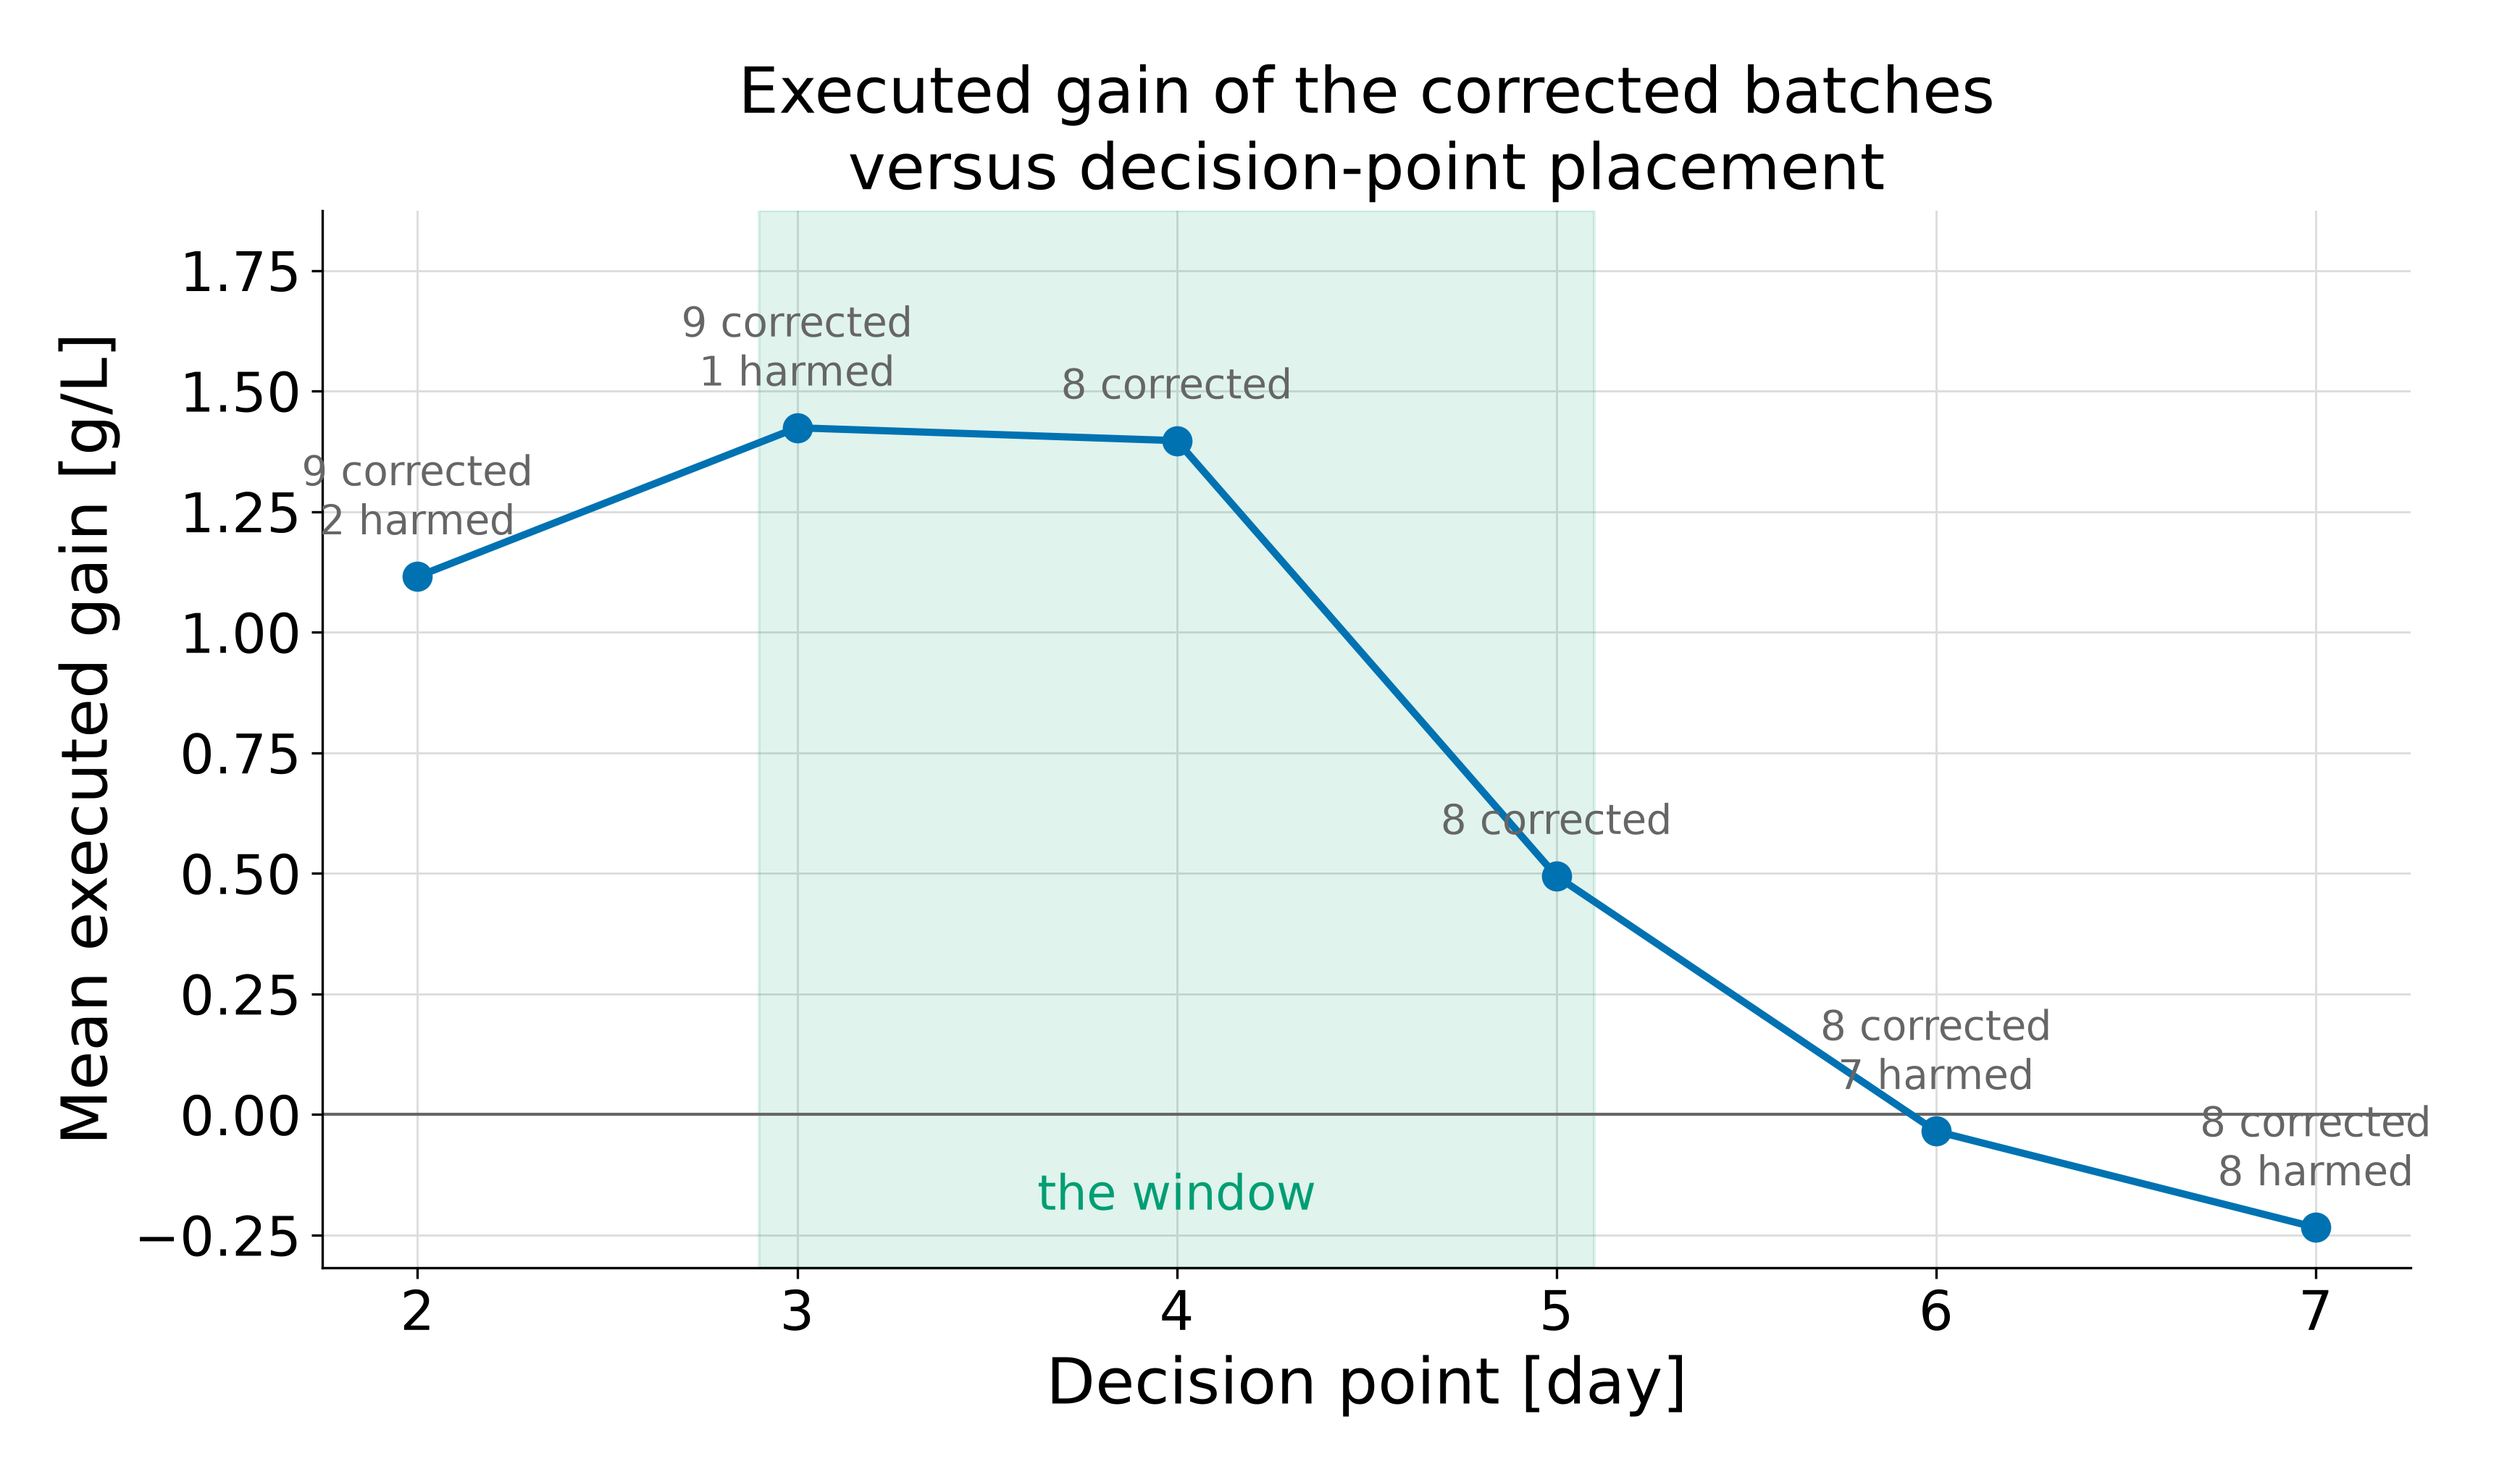
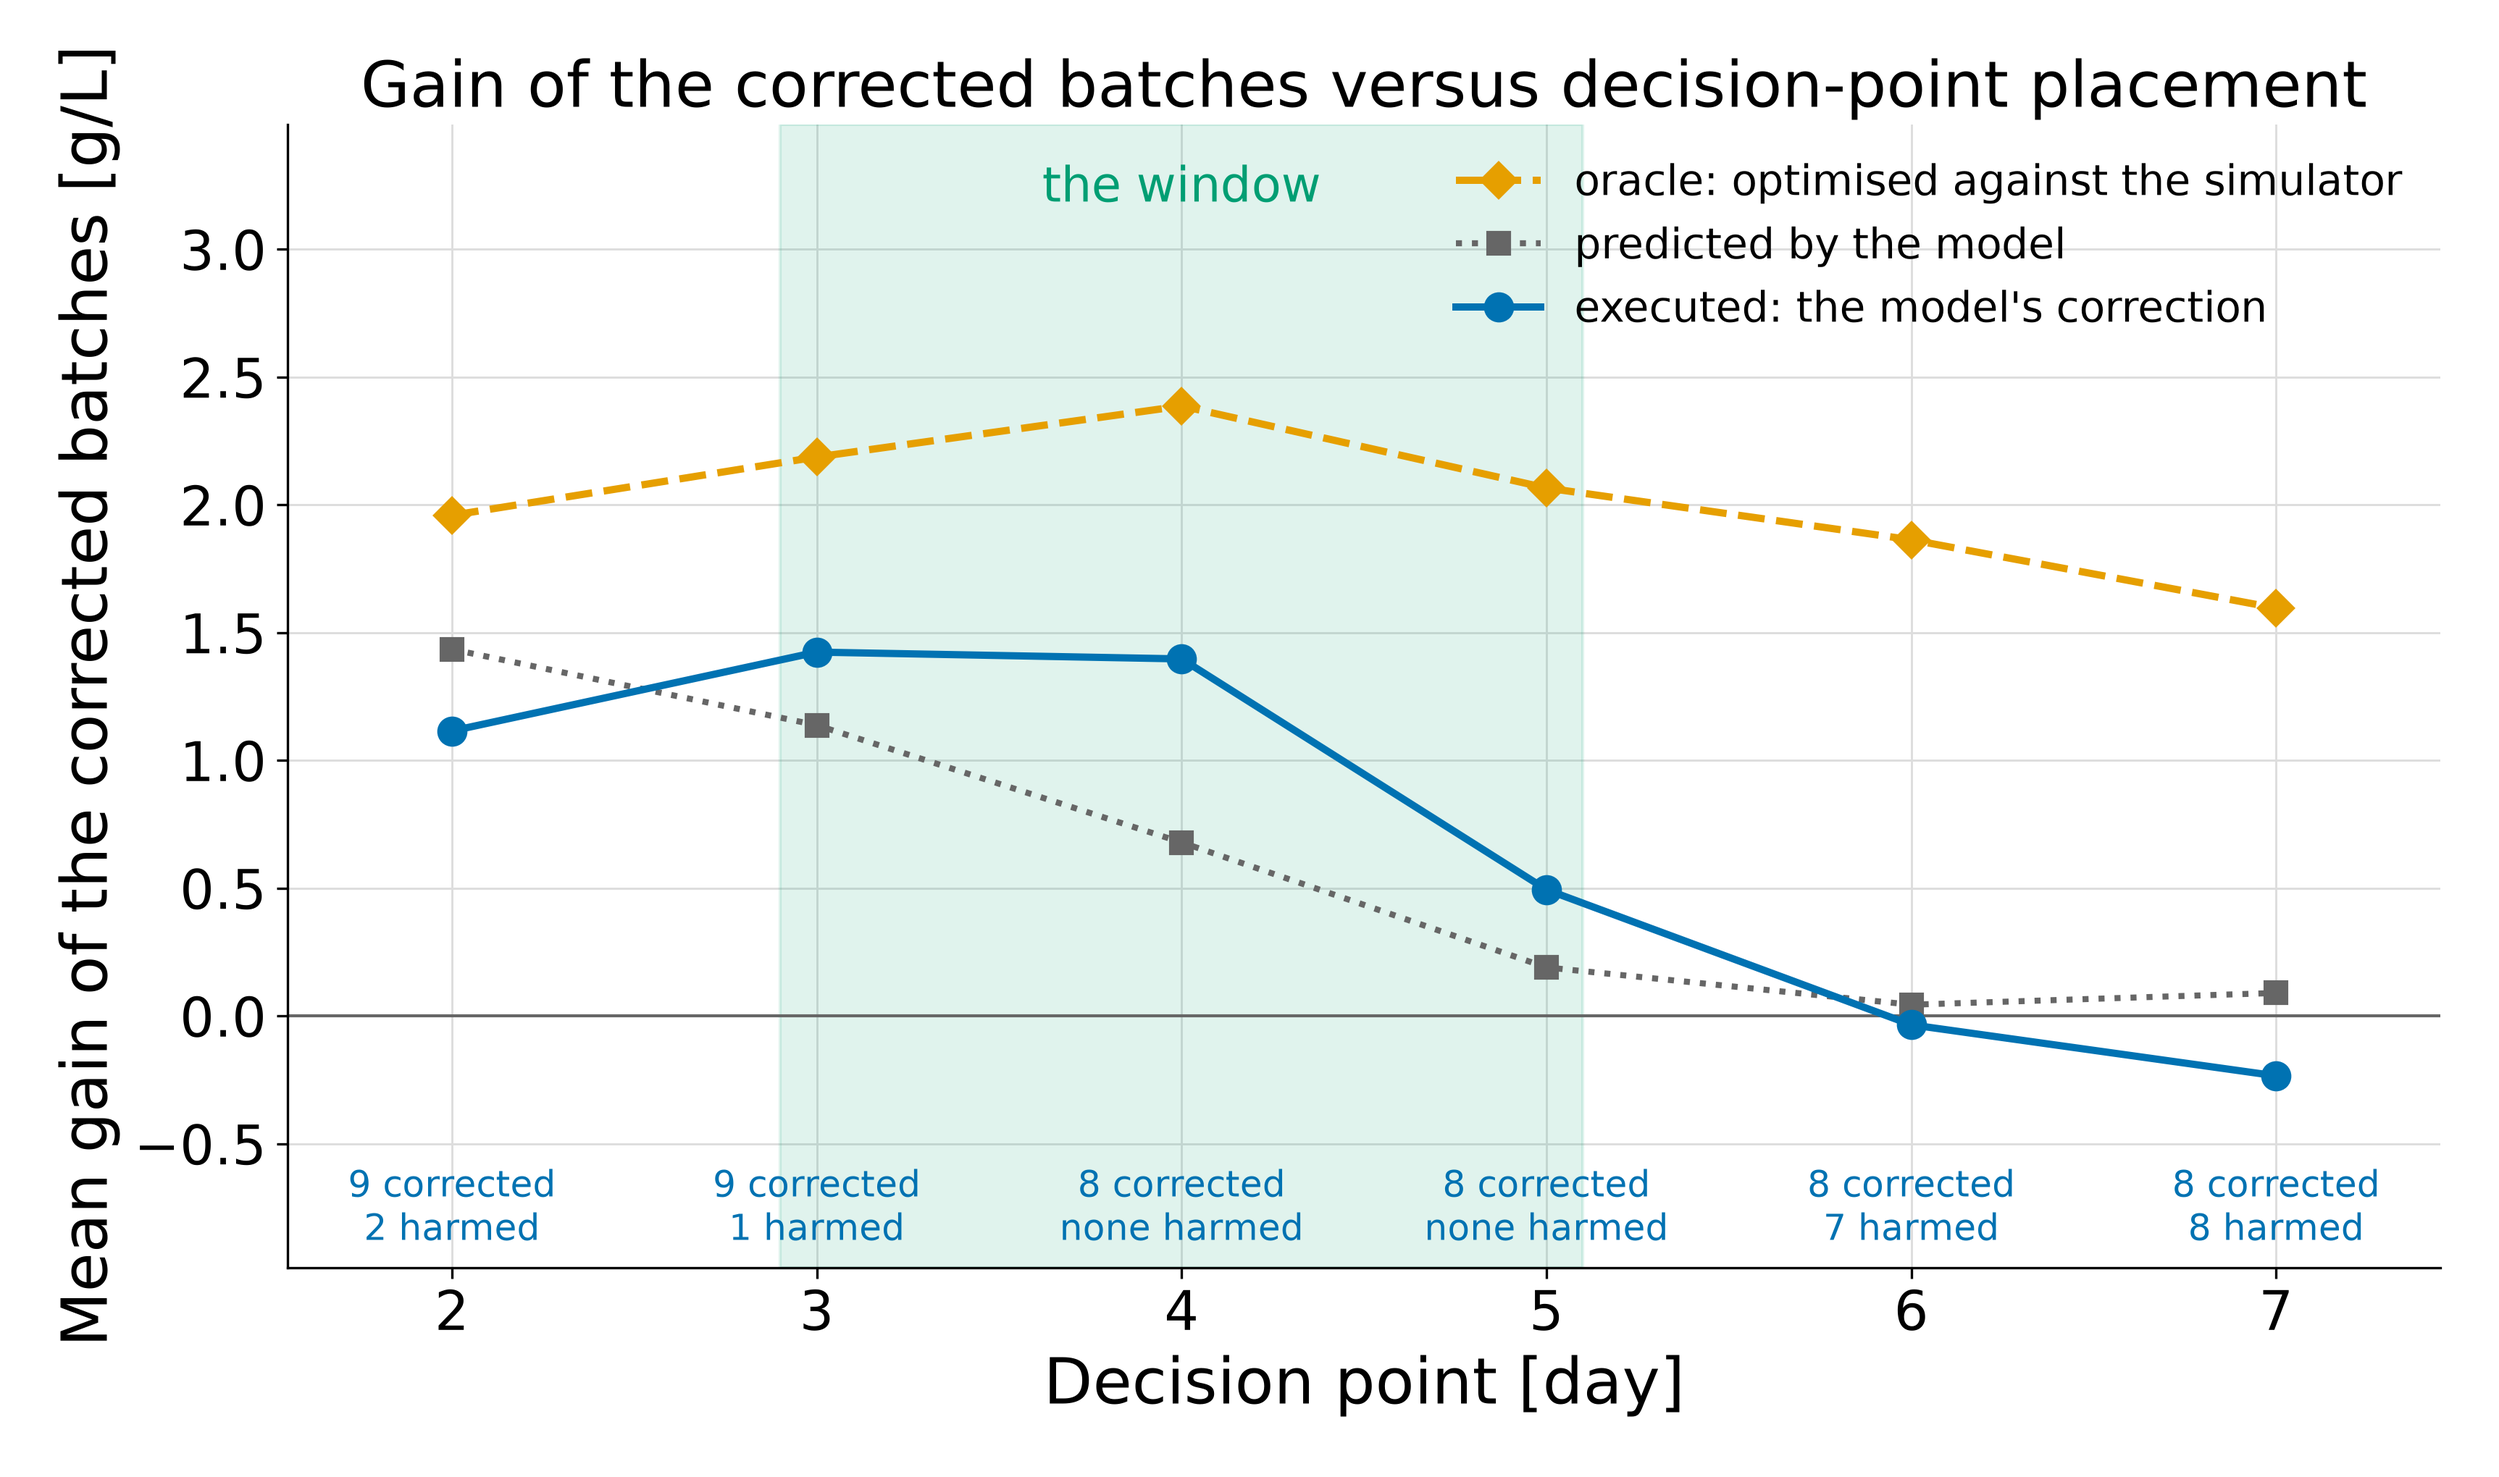
Draw the predicted and oracle gains beside the executed gain in the decision-point window
The late decision points lose their gain because the model stops seeing the
leverage, not because the process loses it: optimised against the simulator
from the same day, the same batches still gain 1.6 to 2.1 g/L at days 5 to 7.
The window figure now shows the model's predicted gain, the executed gain and
that oracle, with the batch counts moved to a row clear of the lines, and the
docstring no longer says the late schedule has no leverage.

Claude-Session: https://claude.ai/code/session_01NZAyiPT8xURSdi24yFKCra

diff --git a/batch/midcourse-correction-figures.py b/batch/midcourse-correction-figures.py
@@ -2,7 +2,8 @@
 
 Five committed PNGs, every quantitative claim executed on the bioreactor
 simulator (corrected schedules re-simulated with the identical disturbance
-seed, so gains are same-batch counterfactuals, never model predictions).
+seed, so executed gains are same-batch counterfactuals; a model's
+prediction, where one is drawn, is labelled as such).
 The seeds replicate ``evaluate_control_policies(y_target=8.0,
 random_state=0)`` from ``process_improve``, so the numbers match that
 function's documented headline exactly.
@@ -26,22 +27,28 @@ function's documented headline exactly.
   7.79 +/- 0.75 (eight corrected, none harmed; dead band 1.0, the whole
   interval must fall short of the target), the
   oracle-from-the-decision-point ceiling 7.98 +/- 0.51, and the
-  perfect-feedforward (adapted) ceiling 7.82 +/- 1.01. Left: each
+  feedforward (adapted) ceiling 7.82 +/- 1.01, each schedule optimised
+  for its batch's Z against the simulator's own equations. Left: each
   corrected batch's jump. Right: the distributions; correction removes
   the low tail, which feedforward adaptation cannot reach.
-- ``mcc-decision-point-window.png``: the executed gain of the corrected
-  batches as the single decision point moves through the batch. The
-  window is mid-batch (days 3 to 5, with days 3 and 4 tied at about
-  +1.4 g/L): earlier, the prediction has not yet separated the batches
-  that will fall short from those that will not, and two of the nine
-  corrections at day 2 do harm; later, the remaining schedule has no
-  leverage and corrections turn harmful.
+- ``mcc-decision-point-window.png``: the mean gain of the corrected
+  batches as the single decision point moves through the batch, three
+  ways: predicted by the model, executed, and the oracle's (the remaining
+  schedule optimised against the simulator itself, with the batch's own
+  seed). The executed window is mid-batch (days 3 to 5, with days 3 and
+  4 tied at about +1.4 g/L): earlier, the prediction has not yet
+  separated the batches that will fall short from those that will not,
+  and two of the nine corrections at day 2 do harm. Later, the oracle
+  still gains 1.6 to 2.1 g/L on the same batches, so the process keeps
+  its leverage; the model's predicted gains fall toward zero, and the
+  corrections computed from them turn harmful.
 - ``mcc-exploration-dial.png``: predicted versus executed titer of the
   eight corrected batches as the T2 (stay-where-the-model-has-data)
   penalty is relaxed, hard caps off. On this process the executed
   outcome improves monotonically and sits above the prediction at every
   setting; the late-decision-point harm in the window figure shows the
-  same freedom working against you once the model's leverage is gone.
+  same freedom working against you once the model's estimate of the
+  leverage is wrong.
 
 Usage
 -----
@@ -313,7 +320,13 @@ def policy_comparison(outdir: pathlib.Path) -> None:
 
 
 def decision_point_window(outdir: pathlib.Path) -> None:
-    """Executed gain of corrected batches versus decision-point placement."""
+    """Gain of the corrected batches versus decision-point placement: predicted, executed, oracle.
+
+    The oracle re-optimises the same batches' remaining schedules against the
+    simulator itself from the same decision point, so the gap between its line
+    and the executed one separates what the process still allows from what the
+    model can see.
+    """
     from process_improve.batch.control import evaluate_control_policies
     from process_improve.simulation import BioreactorSimulator
 
@@ -325,46 +338,45 @@ def decision_point_window(outdir: pathlib.Path) -> None:
             y_target=TARGET,
             decision_points=(k,),
             include_adapted=False,
-            oracle="none",
+            oracle="corrected",
             random_state=0,
         )
         corrected = result.batches[result.batches["corrected"]]
-        gain = corrected["midcourse"] - corrected["replay"]
         rows.append(
             {
                 "day": 0.5 * k,
-                "mean_gain": float(gain.mean()) if len(gain) else 0.0,
+                "predicted": float((corrected["y_hat_predicted"] - corrected["y_hat_no_change"]).mean()),
+                "executed": float((corrected["midcourse"] - corrected["replay"]).mean()),
+                "oracle": float((corrected["oracle_from_k"] - corrected["replay"]).mean()),
                 "n_corrected": int(result.n_corrected),
                 "n_harmed": int(result.n_harmed),
             }
         )
     sweep = pd.DataFrame(rows)
-    print("decision-point sweep:")
+    print("decision-point sweep, mean gain of the corrected batches [g/L]:")
     print(sweep.round(3).to_string())
 
     fig, ax = plt.subplots(figsize=(11.5, 6.8))
     ax.axhline(0, color=GREY, lw=1.0)
-    ax.plot(sweep["day"], sweep["mean_gain"], color=BLUE, lw=2.4, marker="o", ms=9)
-    for _, row in sweep.iterrows():
-        note = f"{row['n_corrected']:.0f} corrected"
-        if row["n_harmed"]:
-            note += f"\n{row['n_harmed']:.0f} harmed"
-        below = row["mean_gain"] > 1.5  # keep the peak's label clear of the title
-        ax.annotate(
-            note,
-            xy=(row["day"], row["mean_gain"]),
-            xytext=(14, -18) if below else (0, 14),
-            textcoords="offset points",
-            ha="left" if below else "center",
-            fontsize=13.5,
-            color=GREY,
-        )
     ax.axvspan(2.9, 5.1, color=GREEN, alpha=0.12)
-    ax.annotate("the window", xy=(4.0, ax.get_ylim()[0] + 0.12), ha="center", fontsize=16, color=GREEN)
+    ax.plot(sweep["day"], sweep["oracle"], color=ORANGE, lw=2.4, ls="--", marker="D", ms=8,
+            label="oracle: optimised against the simulator")
+    ax.plot(sweep["day"], sweep["predicted"], color=GREY, lw=2.0, ls=":", marker="s", ms=7,
+            label="predicted by the model")
+    ax.plot(sweep["day"], sweep["executed"], color=BLUE, lw=2.4, marker="o", ms=9,
+            label="executed: the model's correction")
+    bottom = min(sweep["executed"].min(), 0.0) - 0.75
+    ax.set_ylim(bottom=bottom, top=sweep["oracle"].max() + 1.1)
+    for _, row in sweep.iterrows():  # the counts sit in a row along the bottom, clear of every line
+        note = f"{row['n_corrected']:.0f} corrected"
+        note += f"\n{row['n_harmed']:.0f} harmed" if row["n_harmed"] else "\nnone harmed"
+        ax.annotate(note, xy=(row["day"], bottom + 0.06), ha="center", va="bottom", fontsize=12, color=BLUE)
+    ax.set_xlim(sweep["day"].min() - 0.45, sweep["day"].max() + 0.45)  # room for the end labels
     ax.set_xlabel("Decision point [day]")
-    ax.set_ylabel("Mean executed gain [g/L]")
-    ax.set_ylim(top=sweep["mean_gain"].max() + 0.45)
-    ax.set_title("Executed gain of the corrected batches\nversus decision-point placement")
+    ax.set_ylabel("Mean gain of the corrected batches [g/L]")
+    ax.annotate("the window", xy=(4.0, ax.get_ylim()[1] - 0.3), ha="center", fontsize=16, color=GREEN)
+    ax.set_title("Gain of the corrected batches versus decision-point placement")
+    ax.legend(frameon=False, loc="upper right", fontsize=14)
     ax.grid(color=GRID, lw=0.7)
     save(fig, outdir, "mcc-decision-point-window.png")
 
